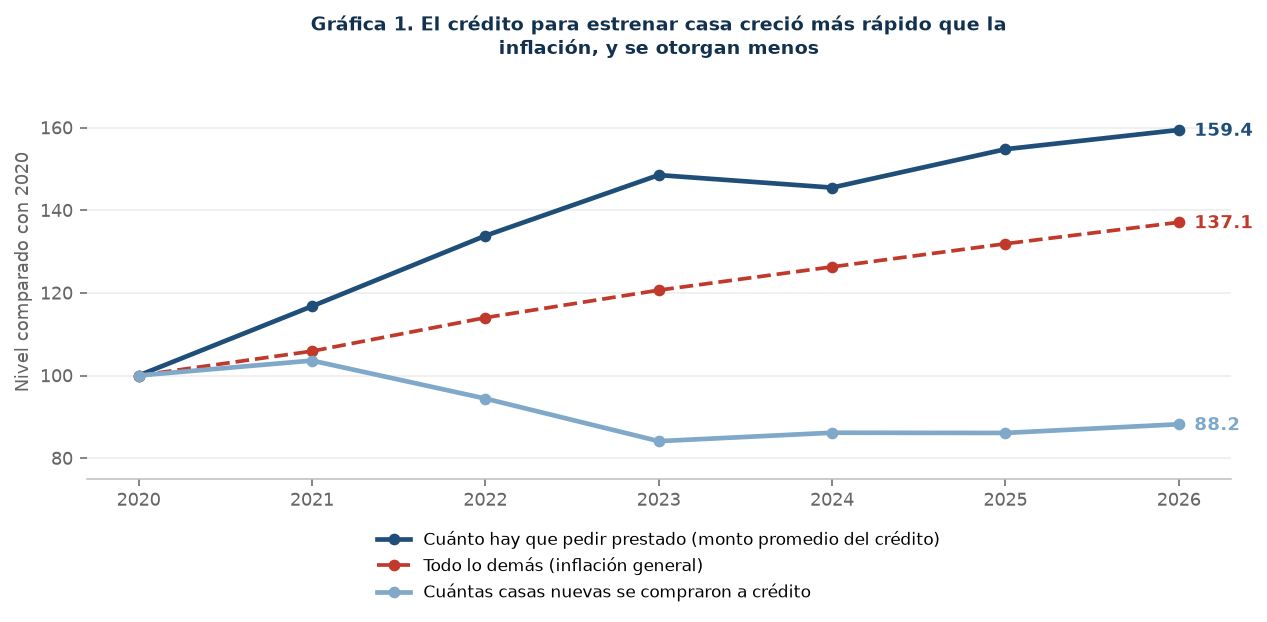
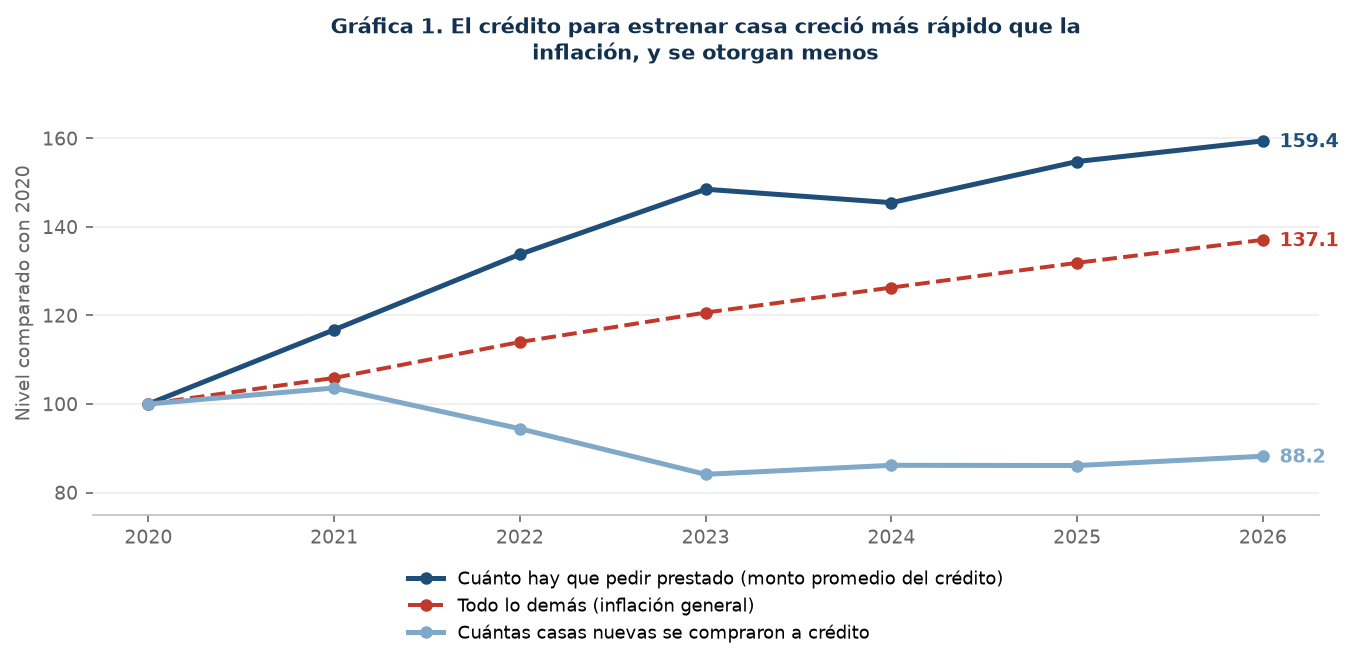
Documenta y exporta la gráfica de vivienda

diff --git a/README.md b/README.md
@@ -1,25 +1,25 @@
 # Vivienda nueva en México
 
-## Pregunta
+¿Quién dejó de poder estrenar casa en México y por qué? El análisis compara los créditos de vivienda nueva, su monto, la distribución por ingreso y la oferta registrada.
 
-¿Quién dejó de poder estrenar casa en México y por qué? El análisis compara los créditos de vivienda nueva, su monto promedio, la distribución por ingreso y la oferta registrada.
+## Hallazgos principales
+
+Entre 2020 y 2026, el crédito promedio subió de $745 mil a $1.188 millones (+59%), mientras el INPC aumentó 37%; el índice de créditos otorgados quedó en 88.2 y la participación del rango de ingreso más bajo bajó de 15.9% a 7.4%. Los créditos para vivienda usada pasaron de 60,627 a 85,718 entre enero y mayo.
+
+![Gráfica 1. El crédito para estrenar casa creció más rápido que la inflación, y se otorgan menos](docs/figuras/grafica_1_credito_inflacion.png)
+
+[Documento completo](docs/Vivienda_nueva_AlejandroMunoz.md)
 
 ## Fuentes de datos
 
-Los registros de financiamientos y oferta provienen de los [datos abiertos del SNIIV](https://sniiv.sedatu.gob.mx/Reporte/Datos_abiertos); `inpc.csv` es la serie del [INPC de INEGI](https://www.inegi.org.mx/temas/inpc/). Las copias de los 15 archivos incluidos se consultaron el 9 de octubre de 2026 y se guardan en `data/raw/`; todos pesan menos de 50 MB. Los precios por segmento de vivienda se citan a partir de los boletines de [SHF](https://www.gob.mx/shf), y los costos de construcción a partir de [CEICO-CMIC](https://www.cmic.org.mx/ceico/); esas cifras se identifican como fuente externa, no calculada en el notebook.
+[SNIIV](https://sniiv.sedatu.gob.mx/Reporte/Datos_abiertos), [INPC de INEGI](https://www.inegi.org.mx/temas/inpc/), [SHF](https://www.gob.mx/shf) y [CEICO-CMIC](https://www.cmic.org.mx/ceico/). Los datos incluidos se consultaron el 9 de octubre de 2026.
 
-## Cómo reproducirlo
+## Límites de los datos
 
-Clona `https://github.com/alexmufe/vivienda-nueva-mexico.git`, instala las versiones fijadas con `python -m pip install -r requirements.txt` y ejecuta todas las celdas de [`notebooks/vivienda_nueva.ipynb`](notebooks/vivienda_nueva.ipynb). También puedes correr desde la raíz `python -m nbconvert --to notebook --execute --inplace --ExecutePreprocessor.timeout=1800 notebooks/vivienda_nueva.ipynb`. Los datos ya están incluidos; no se requiere descarga externa.
+El promedio del crédito no es el precio de la vivienda: también depende del enganche, la institución y el perfil de quien califica. La caída del crédito al rango de ingreso más bajo puede reflejar menor acceso o cambios en el registro del ingreso; la clasificación de la oferta cambia en 2024 y limita las comparaciones por segmento.
 
-## Qué produce
+## Código
 
-El crédito promedio pasó de $745 mil en 2020 a $1.188 millones en 2026 (+59%), frente a un aumento de 37% del INPC; descontada la inflación, el monto aumentó 16%. El índice de créditos otorgados quedó en 88.2 (2020 = 100). La participación del rango de ingreso más bajo bajó de 15.9% en 2020 a 7.4% en 2026, después de llegar a 17.5% en 2022. Los créditos para vivienda usada subieron de 60,627 a 85,718 entre enero y mayo. El notebook muestra las comparaciones y genera la [gráfica del crédito e inflación](docs/figuras/grafica_1_credito_inflacion.png).
-
-## Límites
-
-El monto promedio del crédito no es el precio de la vivienda: también depende del enganche, de la institución y de quién califica. La caída de los créditos al rango de ingreso más bajo puede reflejar menor acceso o cambios en el registro del ingreso. El ejercicio describe el acceso a vivienda nueva, no una escasez general: el documento cita que 96% del déficit habitacional corresponde a viviendas existentes con carencias y 4% a necesidad de vivienda nueva; es una cifra de fuente externa, no calculada en el notebook. La serie de oferta cambia de clasificación en 2024; para la comparación por segmento, el documento empieza en 2025. Haría falta observar precios de venta por segmento frente al ingreso de los hogares para determinar a quién le alcanza.
-
-**Documento completo:** [Análisis sobre vivienda nueva](docs/Vivienda_nueva_AlejandroMunoz.md).
-
-El código de este repositorio se distribuye bajo la licencia MIT (véase [LICENSE](LICENSE)). Los datos son de sus fuentes oficiales y conservan sus propios términos de uso.
+[Notebook](notebooks/vivienda_nueva.ipynb)
+Los datos están incluidos; el notebook corre con las dependencias fijadas en `requirements.txt`.
+`python -m nbconvert --to notebook --execute --inplace --ExecutePreprocessor.timeout=1800 notebooks/vivienda_nueva.ipynb`

diff --git a/docs/Vivienda_nueva_AlejandroMunoz.md b/docs/Vivienda_nueva_AlejandroMunoz.md
@@ -22,6 +22,8 @@ Desde 2021 el **monto del crédito no sigue la misma tendencia de la inflación*
 
 **Gráfica 1. El crédito para estrenar casa creció más rápido que la inflación, y se otorgan menos**
 
+![Gráfica 1. El crédito para estrenar casa creció más rápido que la inflación, y se otorgan menos](figuras/grafica_1_credito_inflacion.png)
+
 Fuente: SNIIV (Conavi-Sedatu), registro de financiamientos, créditos de adquisición de vivienda nueva, e INPC (INEGI). Cálculos propios.
 
 Nota: Cada punto compara el año con 2020, que vale 100. Un valor de 137 significa 37% por encima del nivel de 2020. Se usa el acumulado de enero a mayo de cada año. Los datos son a nivel nacional.
